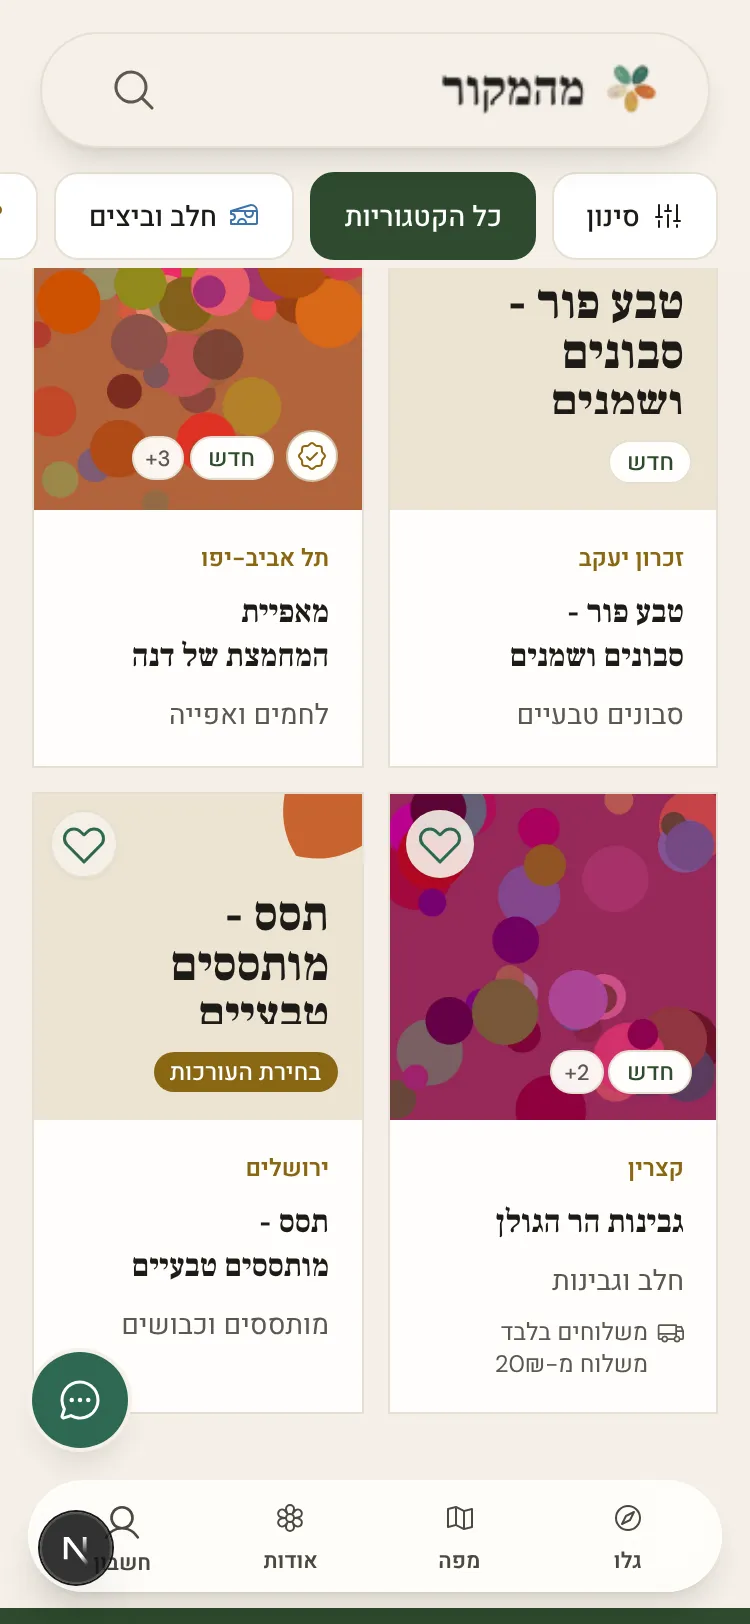
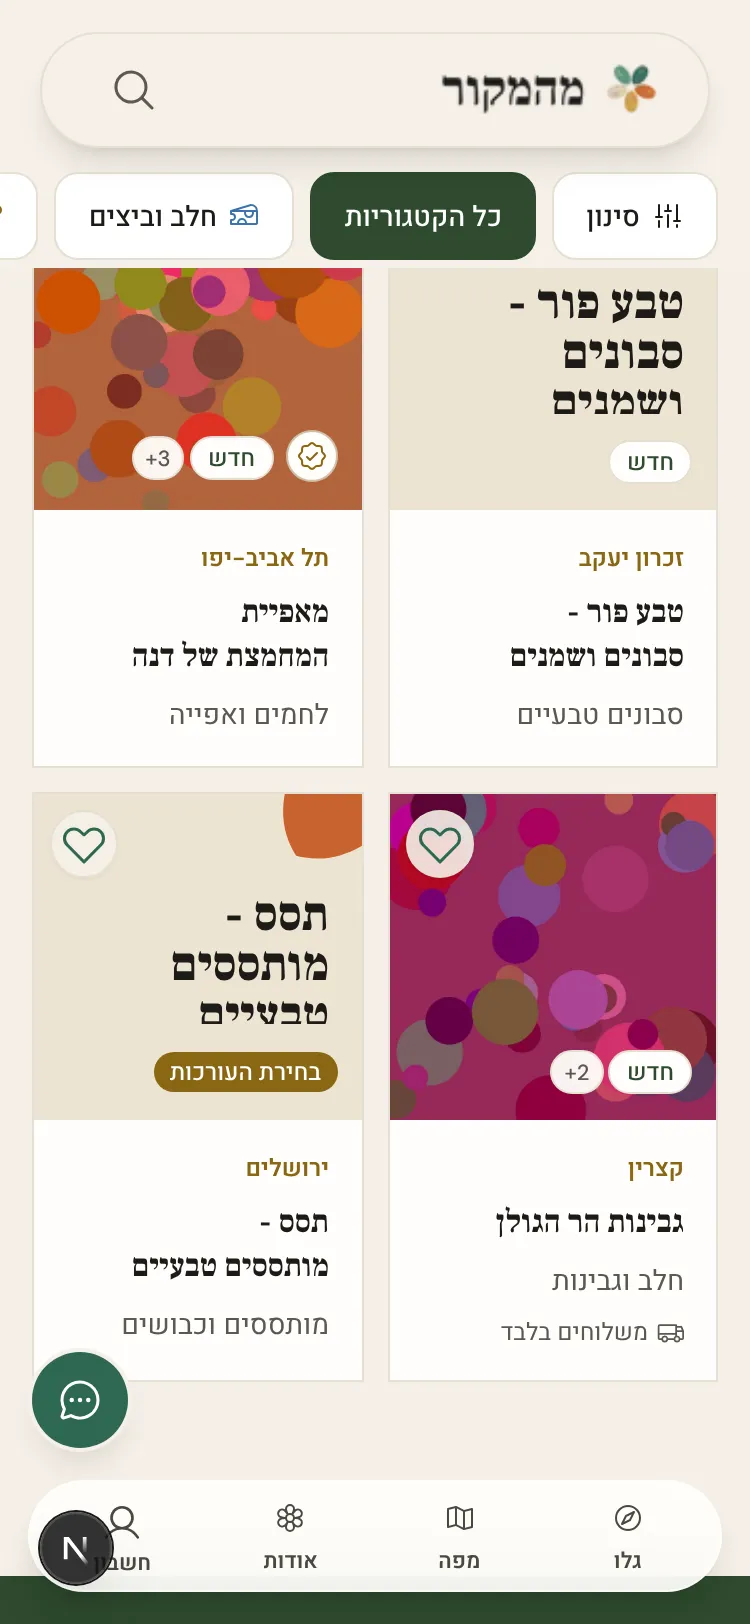
fix(card): delivery-only is one line — the fee stays on the business page
MEH-2744's rule for the card: one delivery fact, one line, the truck
standing for the word. The previous commit stacked «משלוחים בלבד» over
the fee; now a delivery-only business's line is «משלוחים בלבד» alone,
the same trade MEH-2744 made for the free-above threshold.

Refs MEH-3508

Builder-Model: claude-opus-5-5

Claude-Session: https://claude.ai/code/session_01X8DSqVRYnAUFHctAKDH7AH

Changed region(s): [[0.0, 0.9544, 1.0, 1.0], [0.644, 0.8313, 0.8587, 0.8621]]

diff --git a/frontend/components/ProducerCard.jsx b/frontend/components/ProducerCard.jsx
@@ -807,21 +807,21 @@ export default function ProducerCard({ producer, active, onClick, referrer, high
             when delivery_fee is null/undefined — no "no delivery" row. */}
         {/* MEH-2602: the same resolver as DeliveryBlock's top line — per-area
             overrides included — so card and page state one price. */}
-        {/* MEH-3508: «משלוחים בלבד» is no longer a pill: it opens this fact
-            line, and the fee sits under it on the same icon column — one
-            delivery fact, one truck (Wolt/Airbnb: listing facts as plain
-            muted text lines, one icon each). */}
+        {/* MEH-3508: «משלוחים בלבד» is no longer a pill: it IS this fact
+            line. One delivery fact per card, on one line, the truck standing
+            for the word (MEH-2744's rule, Wolt/Uber Eats) — so for a
+            delivery-only business the fee moves to the business page, the
+            same trade MEH-2744 made for the free-above threshold. */}
         {(cardFee.fee != null || freeAbove || showDeliveryOnly) && (
           <p className="flex items-start gap-1 text-xs text-fg-muted" data-testid="card-delivery-fee">
             <Truck size={14} className="shrink-0 mt-[1px]" aria-hidden="true" />
             <span className="min-w-0">
-              {showDeliveryOnly && (
-                <span className="block" data-testid="card-delivery-only">
+              {showDeliveryOnly ? (
+                <span data-testid="card-delivery-only">
                   {t("producer.card.badges.delivery_only")}
                 </span>
-              )}
-              {(cardFee.fee != null || freeAbove) && (
-              <span className="block">
+              ) : (
+              <span>
               {alwaysFree ? (
                 t("group_buys.delivery.fee_free")
               ) : freeAbove ? (

diff --git a/frontend/__tests__/ProducerCard.test.jsx b/frontend/__tests__/ProducerCard.test.jsx
@@ -643,6 +643,19 @@ describe("ProducerCard — Phase B anatomy", () => {
     expect(line.textContent).not.toMatch(/🚚/);
   });
 
+  // MEH-3508: one delivery fact per card, one line — for a delivery-only
+  // business the line says «משלוחים בלבד» and the fee stays on the page.
+  it("delivery-only with a fee: one line, «משלוחים בלבד», no fee on the card", () => {
+    render(
+      <ProducerCard
+        producer={{ ...minimalProducer, has_physical_location: false, offers_delivery: true, delivery_fee: 35 }}
+      />,
+    );
+    const line = screen.getByTestId("card-delivery-fee");
+    expect(line).toHaveTextContent("משלוחים בלבד");
+    expect(line.textContent).not.toMatch(/35/);
+  });
+
   it("does not render the delivery-only badge for a physical producer", () => {
     render(
       <ProducerCard

diff --git a/docs/DESIGN.md b/docs/DESIGN.md
@@ -553,8 +553,9 @@ front matter for the normative token bindings.
     they open above it, over the photo. (MEH-3321, 15/11, had moved the whole
     row into the body; it added rows to the card and was reversed.)
   - **Fact lines (MEH-3508):** below the category, every fact is a plain 12px
-    line with one 14px icon, in this order: delivery (truck; «משלוחים בלבד»
-    opens it, the fee sits under it on the same icon column — no pill), order
+    line with one 14px icon, in this order: delivery (truck; one fact, one
+    line — a delivery-only business reads «משלוחים בלבד» and its fee stays on
+    the business page, as MEH-2744 did for the threshold; no pill), order
     window (clock, `primary`), then offer and favourites. No pills in the body
     except TrustBadge.
   - **No photo plate, history:** it replaces the MEH-643 leaf glyph + wordmark on
